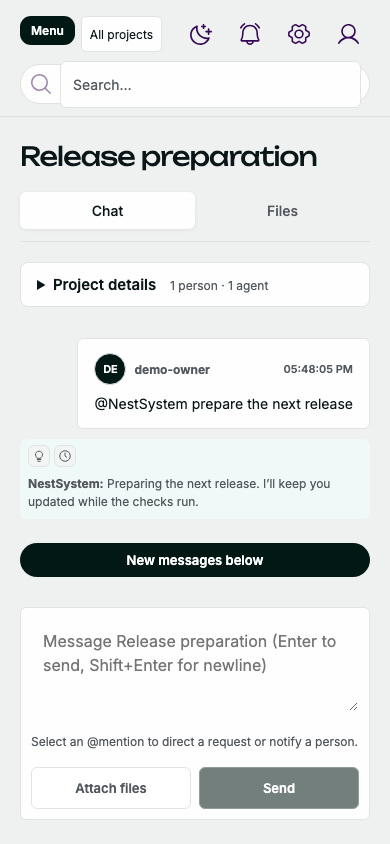
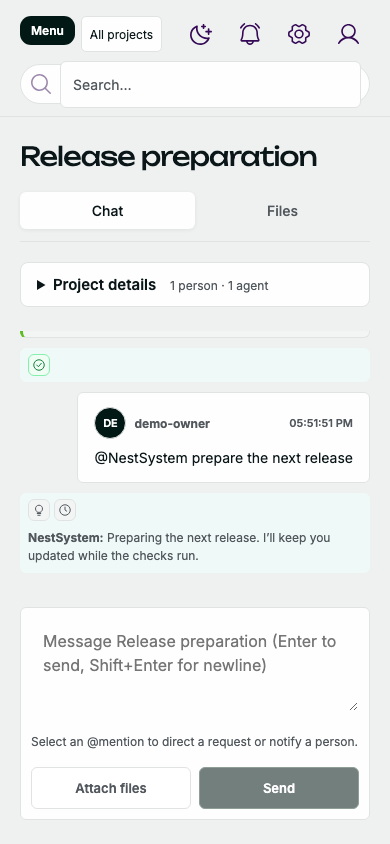
fix(chat): restore progress when a failed turn retries

Changed region(s): [[0.0308, 0.4005, 0.9538, 0.7085], [0.0923, 0.4005, 0.1231, 0.4621]]

diff --git a/apps/user-ui/src/activity.test.ts b/apps/user-ui/src/activity.test.ts
@@ -32,4 +32,7 @@ describe('compact wrapped progress',()=>{
  it('does not reuse a previous turn update or expose arbitrary phase payloads',()=>{
   expect([...activeAgentProgress([progress('old'),event('agent.turn.started',{triggerEventId:'next'}),event('agent.turn.phase',{text:'private detail'})])]).toEqual([]);
  });
+ it('shows progress when the engine retries a previously failed trigger',()=>{
+  expect([...activeAgentProgress([event('agent.turn.failed',{triggerEventId:'turn'}),event('agent.turn.started',{triggerEventId:'turn'}),progress('retry')])]).toEqual(['retry']);
+ });
 });

diff --git a/apps/user-ui/src/activity.ts b/apps/user-ui/src/activity.ts
@@ -38,6 +38,7 @@ export function activeAgentProgress(events:EventRow[]):Set<string>{
     if(['agent.turn.completed','agent.turn.failed','wrapper.turn.completed','wrapper.turn.failed'].includes(event.type)){
       finished.add(key);active.delete(key);
     }else if(event.type==='agent.turn.started'){
+      finished.delete(key);
       for(const [id,row] of active)if(row.source===`agent:${agent}`)active.delete(id);
     }else if(event.type==='agent.turn.phase'&&p.phase==='codex-progress'&&typeof p.text==='string'&&p.text.trim()&&!finished.has(key)){
       active.set(key,event);

diff --git a/docs/images/validation/codex-progress/README.md b/docs/images/validation/codex-progress/README.md
@@ -16,7 +16,7 @@ Unit/integration checks additionally cover failed turns, reasoning/tool-output
 exclusion, lost-response deduplication, bounded delivery failure and suppression
 of agent wake-ups. Existing compact activity controls remain unchanged.
 
-Validation: `npm run lint`, `npm run build`, all 173 product tests, the demo
+Validation: `npm run lint`, `npm run build`, all 174 product tests, the demo
 publisher check, and `npm run test:ui:chat`. On macOS the publisher check needs
 `TMPDIR=/private/tmp` to avoid the existing temporary-path symlink mismatch.
 The OrgOps submodule is untouched. No live Codex turn was dispatched for these checks.
